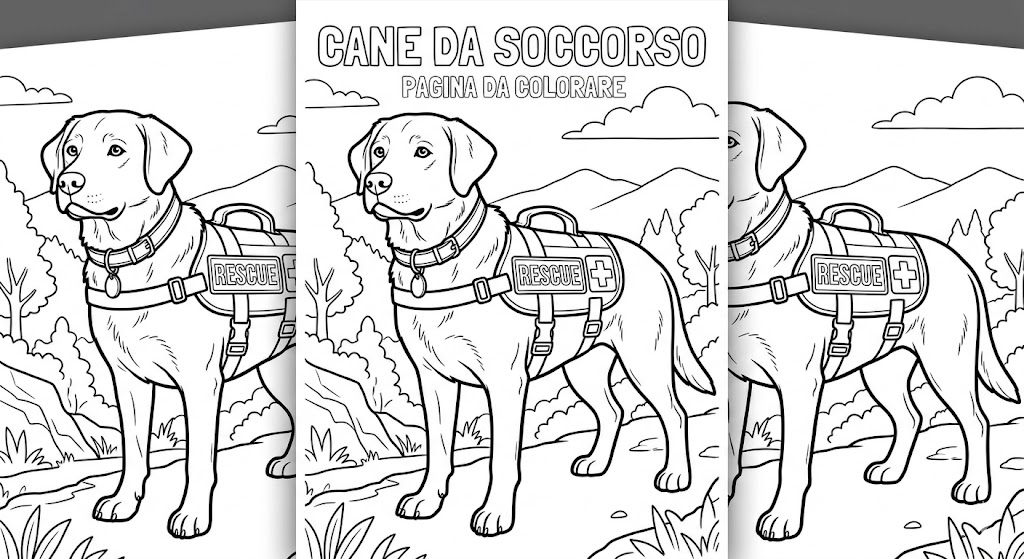
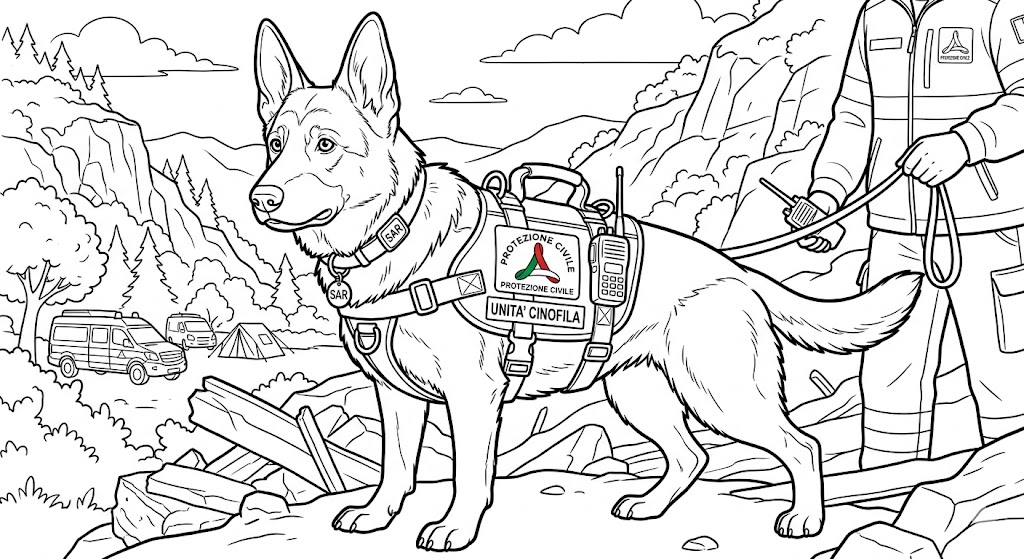
Kit Bambini: aggiornamento batch — disegni reali, soluzioni separate, fix landing pages
DISEGNI REALI INTEGRATI:
- 05 cane da soccorso → pastore tedesco PROTEZIONE CIVILE UNITÀ CINOFILA
  con conduttore in divisa PC + macerie + mezzi sullo sfondo
- 07 mandala bambini → mandala-bussola con rosa dei venti (orienta + rilassa)
- 47 (NUOVA) → Canadair CL-415 antincendio per fascia 6-8 anni
- 10 lavarsi mani → infografica WHO ufficiale 12 step (già pubblicata)
- 02/03/04 camion/tende/elicottero (già pubblicati commit precedente)

SOLUZIONI GIOCHI:
- Bug critico fixato: nel print.css aggiunto 'details, .soluzioni
  { display: none !important; }' in @user print → soluzioni nei
  <details> NON finiscono più sul foglio del bambino in stampa
- Nuova scheda 99-soluzioni-giochi.html: foglio dedicato per
  operatori con tutte le soluzioni (cruciverba 15/23, word search 21,
  sudoku 22, labirinti 6/13, punto-punto 12, trova differenze 14)
  Marcato 'RISERVATO — non distribuire ai bambini'

INDICE BAMBINI:
- Rimossi numeri delle schede ('46 schede', '10 schede fascia X')
  per applicare la rule del progetto 'Niente conteggi inventario'
  (causa drift). Lasciato solo tipologia + fascia.
- Rimosso link auto-referenziale 'Ogni nuova versione disponibile a...'
- Email corretta: info@ → [email redacted]
  (l'email info@ non esisteva, sostituita con quella vera dei contatti)

ELIMINATA scheda 11 color-by-number elicottero schematico
(duplicato della scheda 4 che ora ha l'illustrazione vera).

KIT ANZIANI: scheda 07 mandala adulto sostituita con illustrazione
[…]

diff --git a/static/formazione/kit-calamita-bambini/99-soluzioni-giochi.html b/static/formazione/kit-calamita-bambini/99-soluzioni-giochi.html
@@ -1,0 +1,91 @@
+<!DOCTYPE html>
+<html lang="it">
+<head>
+<meta charset="utf-8">
+<title>Soluzioni dei giochi — Kit Calamità Bambini (per operatori)</title>
+<link rel="stylesheet" href="../kit-calamita-shared/print.css">
+<style>
+  .scheda { font-size: 11pt; }
+  h2 { color: var(--pc-blue); font-size: 14pt; margin: 6mm 0 2mm; border-bottom: 1px solid var(--pc-blue); padding-bottom: 1mm; }
+  .sol-box { border: 1.5px solid #1a1a1a; border-radius: 6px; padding: 4mm 5mm; margin-bottom: 4mm; }
+  .sol-titolo { color: var(--pc-blue); font-weight: 700; font-size: 12pt; margin-bottom: 2mm; }
+  pre { font-family: monospace; font-size: 12pt; background: #fafbfc; padding: 3mm; border: 1px solid #ccc; line-height: 1.5; margin: 2mm 0; }
+  .alert-box { background: #fff5f5; border: 2px solid #c1121f; border-radius: 6px; padding: 4mm 5mm; margin-bottom: 6mm; }
+  .alert-box strong { color: #c1121f; font-size: 13pt; }
+</style>
+</head>
+<body>
+<button class="btn-stampa no-print" onclick="window.print()">🖨️ Stampa A4</button>
+<a class="btn-indice no-print" href="./">← Indice</a>
+<article class="scheda">
+  <header class="scheda-header">
+    <svg class="logo" viewBox="0 0 100 100" aria-hidden="true"><rect x="2" y="2" width="96" height="96" fill="none" stroke="#003366" stroke-width="3"/><text x="50" y="58" text-anchor="middle" font-size="32" font-weight="700" fill="#003366">PC</text></svg>
+    <div class="brand">Protezione Civile<small>Gruppo Comunale Volontari — Genzano di Roma</small></div>
+    <span class="kit-tag">Kit Calamità Bambini · SOLUZIONI</span>
+  </header>
+  <h1 class="scheda-title">Soluzioni dei giochi</h1>
+  <p class="scheda-subtitle">Foglio riservato all'operatore — non distribuire ai bambini</p>
+  <div class="alert-box">
+    <strong>⚠️ ATTENZIONE</strong> — questo foglio contiene le soluzioni di tutti i giochi del kit. Stamparlo separatamente dalle schede dei bambini e tenerlo con sé. Serve per verificare le risposte o aiutare un bambino bloccato.
+  </div>
+  <section class="scheda-attivita" style="align-items: stretch;">
+
+    <h2>Scheda 15 — Completa le parole della sicurezza (6-8 anni)</h2>
+    <div class="sol-box">
+      <p>1) <strong>CASCO</strong> · 2) <strong>AIUTO</strong> · 3) <strong>RADIO</strong> · 4) <strong>TENDA</strong> · 5) <strong>AMICO</strong></p>
+    </div>
+
+    <h2>Scheda 21 — Cerca le parole della Protezione Civile (9-11 anni)</h2>
+    <div class="sol-box">
+      <div class="sol-titolo">15 parole nascoste:</div>
+      <p>AIUTO · CASCO · TENDA · RADIO · VOLONTARIO · SOCCORSO · SANITARIO · SPERANZA · ALLERTA · NUMERO · AVVISO · DPC · TERREMOTO · MARE · CALMA</p>
+      <p style="font-size: 9.5pt; color: #666;"><em>Le parole sono nascoste in orizzontale, verticale o diagonale (anche reverse). L'algoritmo di placement le posiziona casualmente — verificare con la ricerca visiva.</em></p>
+    </div>
+
+    <h2>Scheda 22 — Sudoku 6×6 della sicurezza (9-11 anni)</h2>
+    <div class="sol-box">
+<pre>3 5 2 6 1 4
+1 4 6 2 3 5
+6 3 4 5 2 1
+2 1 5 4 6 3
+4 2 3 1 5 6
+5 6 1 3 4 2</pre>
+    </div>
+
+    <h2>Scheda 23 — Le 10 parole della Protezione Civile (9-11 anni)</h2>
+    <div class="sol-box">
+      <p>1) <strong>DPC</strong> · 2) <strong>VOLONTARIO</strong> · 3) <strong>TERREMOTO</strong> · 4) <strong>SOCCORSO</strong> · 5) <strong>SIRENA</strong> · 6) <strong>ALLERTA</strong> · 7) <strong>112</strong> · 8) <strong>ARCOBALENO</strong> · 9) <strong>RADIO</strong> · 10) <strong>SOLE</strong></p>
+    </div>
+
+    <h2>Schede 6 e 13 — Labirinti</h2>
+    <div class="sol-box">
+      <p>I labirinti sono generati con algoritmo Recursive Backtracking che garantisce <strong>esattamente un percorso</strong> da START a FINE (non ci sono percorsi multipli, non ci sono vicoli ciechi senza uscita strutturali). Per la soluzione visiva: aprire la scheda HTML in browser e seguire il percorso col dito — l'unica via libera è quella corretta.</p>
+    </div>
+
+    <h2>Scheda 12 — Punto-punto: il casco del volontario (6-8 anni)</h2>
+    <div class="sol-box">
+      <p>Unendo i 24 punti in ordine si forma il <strong>casco del volontario di Protezione Civile con la lampada frontale</strong> (semicerchio per la calotta + visiera + lampada in fronte).</p>
+    </div>
+
+    <h2>Scheda 14 — Trova le 7 differenze (6-8 anni)</h2>
+    <div class="sol-box">
+      <ol>
+        <li>Sole con raggi (squadra B) vs senza raggi (A)</li>
+        <li>Bandiera in mano al volontario (B) vs niente (A)</li>
+        <li>Cane con orecchie a punta (B) vs senza (A)</li>
+        <li>Mela rossa sull'albero (B) vs niente (A)</li>
+        <li>Croce sulla tenda più grande (B)</li>
+        <li>Nuvola in posizione diversa (B vs A)</li>
+        <li>Uccellini in volo (B) vs niente (A)</li>
+      </ol>
+    </div>
+
+  </section>
+  <footer class="scheda-footer">
+    <span>Soluzioni — Kit Calamità Bambini</span>
+    <span class="fonti">Foglio riservato. Stampare e tenere con l'operatore. Non distribuire ai bambini.</span>
+    <span>www.protezionecivilegenzano.it</span>
+  </footer>
+</article>
+</body>
+</html>

diff --git a/static/formazione/kit-calamita-anziani/07-mandala-adulti.html b/static/formazione/kit-calamita-anziani/07-mandala-adulti.html
@@ -2,7 +2,7 @@
 <html lang="it">
 <head>
 <meta charset="utf-8">
-<title>Scheda 7 — Mandala per adulti (anziani, rilassamento)</title>
+<title>Scheda 7 — Mandala terapia da colorare (anziani)</title>
 <link rel="stylesheet" href="../kit-calamita-shared/print.css">
 </head>
 <body>
@@ -14,63 +14,17 @@
     <div class="brand">Protezione Civile<small>Gruppo Comunale Volontari — Genzano di Roma</small></div>
     <span class="kit-tag">Anziani · Rilassamento</span>
   </header>
-  <h1 class="scheda-title">Mandala per la calma</h1>
-  <span class="scheda-eta">Rilassamento + esercizio motricità fine</span>
-  <div class="scheda-istruzione">🎨 <strong>Colora con calma</strong>, dal centro verso l'esterno o viceversa. La ripetitività rilassa la mente.</div>
+  <h1 class="scheda-title">Mandala terapia per il rilassamento</h1>
+  <span class="scheda-eta">Adulti / anziani — esercizio motricità fine + concentrazione</span>
+  <div class="scheda-istruzione">🌸 <strong>Colora il mandala</strong> con calma. La ripetitività dei motivi rilassa la mente. Concediti tempo, non c'è fretta.</div>
   <section class="scheda-attivita" style="justify-content: center;">
-    <svg viewBox="0 0 500 500" style="width:100%; max-height: 230mm;">
-      <!-- Centro: rosa a 8 petali -->
-      <circle cx="250" cy="250" r="20" fill="none" stroke="#1a1a1a" stroke-width="2"/>
-      <g stroke="#1a1a1a" stroke-width="2" fill="none">
-        <ellipse cx="250" cy="220" rx="12" ry="20" transform="rotate(0 250 250)"/>
-        <ellipse cx="250" cy="220" rx="12" ry="20" transform="rotate(45 250 250)"/>
-        <ellipse cx="250" cy="220" rx="12" ry="20" transform="rotate(90 250 250)"/>
-        <ellipse cx="250" cy="220" rx="12" ry="20" transform="rotate(135 250 250)"/>
-        <ellipse cx="250" cy="220" rx="12" ry="20" transform="rotate(180 250 250)"/>
-        <ellipse cx="250" cy="220" rx="12" ry="20" transform="rotate(225 250 250)"/>
-        <ellipse cx="250" cy="220" rx="12" ry="20" transform="rotate(270 250 250)"/>
-        <ellipse cx="250" cy="220" rx="12" ry="20" transform="rotate(315 250 250)"/>
-      </g>
-      <!-- Cerchio intermedio 1 -->
-      <circle cx="250" cy="250" r="80" fill="none" stroke="#1a1a1a" stroke-width="1.5"/>
-      <!-- 16 piccoli petali al cerchio 80 -->
-      <g stroke="#1a1a1a" stroke-width="1.5" fill="none">
-        <g><circle cx="250" cy="170" r="8"/><circle cx="306" cy="194" r="8"/><circle cx="330" cy="250" r="8"/><circle cx="306" cy="306" r="8"/><circle cx="250" cy="330" r="8"/><circle cx="194" cy="306" r="8"/><circle cx="170" cy="250" r="8"/><circle cx="194" cy="194" r="8"/></g>
-      </g>
-      <!-- Cerchio intermedio 2 -->
-      <circle cx="250" cy="250" r="130" fill="none" stroke="#1a1a1a" stroke-width="1.5"/>
-      <!-- Triangoli decorativi tra 80 e 130 -->
-      <g stroke="#1a1a1a" stroke-width="1.5" fill="none">
-        <polygon points="250,80 240,130 260,130"/>
-        <polygon points="250,420 240,370 260,370"/>
-        <polygon points="80,250 130,240 130,260"/>
-        <polygon points="420,250 370,240 370,260"/>
-        <polygon points="370,130 340,170 360,140"/>
-        <polygon points="130,130 160,170 140,140"/>
-        <polygon points="370,370 340,330 360,360"/>
-        <polygon points="130,370 160,330 140,360"/>
-      </g>
-      <!-- Cerchio esterno -->
-      <circle cx="250" cy="250" r="200" fill="none" stroke="#1a1a1a" stroke-width="2"/>
-      <!-- Decorazione esterna a onda -->
-      <g stroke="#1a1a1a" stroke-width="1.2" fill="none">
-        <path d="M 50 250 Q 70 230 90 250 Q 110 270 130 250"/>
-        <path d="M 370 250 Q 390 230 410 250 Q 430 270 450 250"/>
-        <path d="M 250 50 Q 230 70 250 90 Q 270 110 250 130"/>
-        <path d="M 250 370 Q 230 390 250 410 Q 270 430 250 450"/>
-      </g>
-      <!-- Piccoli cerchi decorativi sul bordo esterno -->
-      <g stroke="#1a1a1a" stroke-width="1" fill="none">
-        <circle cx="250" cy="40" r="6"/>
-        <circle cx="250" cy="460" r="6"/>
-        <circle cx="40" cy="250" r="6"/>
-        <circle cx="460" cy="250" r="6"/>
-        <circle cx="100" cy="100" r="6"/>
-        <circle cx="400" cy="100" r="6"/>
-        <circle cx="100" cy="400" r="6"/>
-        <circle cx="400" cy="400" r="6"/>
-      </g>
-    </svg>
+    <img src="img/mandala-adulto.jpg" alt="Mandala terapia da colorare per adulti, motivo simmetrico complesso con fiori di loto centrali, foglie e arabeschi decorativi nei pannelli laterali. In basso la scritta 'Rilassati e concentrati'" style="width: 100%; max-width: 100%; max-height: 230mm; object-fit: contain; border: 1.5px solid #1a1a1a; border-radius: 4px;">
   </section>
-  <footer class="scheda-footer"><span>Anziani Scheda 7 — Mandala</span><span class="fonti">Mandala therapy: ripetitività + simmetria stimolano rilassamento (riduzione cortisolo). Validato in psicogeriatria.</span><span>www.protezionecivilegenzano.it</span></footer>
-</article></body></html>
+  <footer class="scheda-footer">
+    <span>Anziani Scheda 7 — Mandala terapia</span>
+    <span class="fonti">Mandala therapy: ripetitività + simmetria stimolano rilassamento (riduzione cortisolo). Validato in psicogeriatria. Esercizio insieme di motricità fine e concentrazione.</span>
+    <span>www.protezionecivilegenzano.it</span>
+  </footer>
+</article>
+</body>
+</html>

diff --git a/static/formazione/kit-calamita-bambini/07-mandala-sole.html b/static/formazione/kit-calamita-bambini/07-mandala-sole.html
@@ -2,7 +2,7 @@
 <html lang="it">
 <head>
 <meta charset="utf-8">
-<title>Scheda 7 — Mandala del sole (3-5 anni)</title>
+<title>Scheda 7 — Mandala bussola da colorare (3-5 anni)</title>
 <link rel="stylesheet" href="../kit-calamita-shared/print.css">
 </head>
 <body>
@@ -14,59 +14,15 @@
     <div class="brand">Protezione Civile<small>Gruppo Comunale Volontari — Genzano di Roma</small></div>
     <span class="kit-tag">Bambini · 3-5 anni</span>
   </header>
-  <h1 class="scheda-title">Il mandala del sole</h1>
+  <h1 class="scheda-title">Il mio mandala bussola</h1>
   <span class="scheda-eta">3-5 anni</span>
-  <div class="scheda-istruzione">☀️ <strong>Colora il sole</strong> con calma. Quando coloriamo, il cuore si calma e la testa pensa a cose belle.</div>
+  <div class="scheda-istruzione">🧭 <strong>Colora il mandala</strong> e impara le 4 direzioni: Nord, Sud, Est, Ovest. Quando coloriamo con calma, il cuore si rilassa.</div>
   <section class="scheda-attivita" style="justify-content: center;">
-    <svg viewBox="0 0 500 500" style="width:100%; max-height: 200mm;" aria-label="Mandala a forma di sole semplice">
-      <!-- Cerchio centrale viso -->
-      <circle cx="250" cy="250" r="80" fill="none" stroke="#1a1a1a" stroke-width="3"/>
-      <!-- Occhi -->
-      <circle cx="225" cy="235" r="8" fill="none" stroke="#1a1a1a" stroke-width="2"/>
-      <circle cx="275" cy="235" r="8" fill="none" stroke="#1a1a1a" stroke-width="2"/>
-      <!-- Sorriso -->
-      <path d="M 215 270 Q 250 295 285 270" fill="none" stroke="#1a1a1a" stroke-width="3"/>
-      <!-- Cerchio intermedio decorativo -->
-      <circle cx="250" cy="250" r="110" fill="none" stroke="#1a1a1a" stroke-width="2" stroke-dasharray="6 4"/>
-      <!-- Raggi triangolari grandi -->
-      <g stroke="#1a1a1a" stroke-width="3" fill="none">
-        <polygon points="250,120 240,160 260,160"/>
-        <polygon points="250,380 240,340 260,340"/>
-        <polygon points="120,250 160,240 160,260"/>
-        <polygon points="380,250 340,240 340,260"/>
-        <polygon points="158,158 175,178 178,160"/>
-        <polygon points="342,158 325,178 322,160"/>
-        <polygon points="158,342 175,322 178,340"/>
-        <polygon points="342,342 325,322 322,340"/>
-      </g>
-      <!-- Raggi piccoli intermedi -->
-      <g stroke="#1a1a1a" stroke-width="2" fill="none">
-        <line x1="250" y1="100" x2="250" y2="115"/>
-        <line x1="250" y1="385" x2="250" y2="400"/>
-        <line x1="100" y1="250" x2="115" y2="250"/>
-        <line x1="385" y1="250" x2="400" y2="250"/>
-        <line x1="195" y1="125" x2="205" y2="138"/>
-        <line x1="305" y1="125" x2="295" y2="138"/>
-        <line x1="195" y1="375" x2="205" y2="362"/>
-        <line x1="305" y1="375" x2="295" y2="362"/>
-      </g>
-      <!-- Cerchio esterno con piccoli petali -->
-      <circle cx="250" cy="250" r="180" fill="none" stroke="#1a1a1a" stroke-width="1.5"/>
-      <g stroke="#1a1a1a" stroke-width="1.5" fill="none">
-        <circle cx="250" cy="70" r="8"/>
-        <circle cx="250" cy="430" r="8"/>
-        <circle cx="70" cy="250" r="8"/>
-        <circle cx="430" cy="250" r="8"/>
-        <circle cx="123" cy="123" r="8"/>
-        <circle cx="377" cy="123" r="8"/>
-        <circle cx="123" cy="377" r="8"/>
-        <circle cx="377" cy="377" r="8"/>
-      </g>
-    </svg>
+    <img src="img/mandala-bussola.jpg" alt="Mandala-bussola da colorare per bambini con rosa dei venti centrale (Nord, Sud, Est, Ovest, NE, SE, SO, NO), orsetto polare in alto, sole nascente, palme, conchiglie, pesci e barchetta nelle decorazioni a margine" style="width: 100%; max-width: 100%; max-height: 220mm; object-fit: contain; border: 1.5px solid #1a1a1a; border-radius: 4px;">
   </section>
   <footer class="scheda-footer">
-    <span>Scheda 7 — Mandala del sole</span>
-    <span class="fonti">I mandala sono disegni circolari che aiutano a calmarsi. Anche dopo cose difficili, il sole torna sempre a sorgere.</span>
+    <span>Scheda 7 — Mandala bussola</span>
+    <span class="fonti">Mandala-bussola: oltre al rilassamento, introduce le 4 direzioni cardinali (utili per orientamento in campo accoglienza). Tema dell'esplorazione: orsetto, mare, palme.</span>
     <span>www.protezionecivilegenzano.it</span>
   </footer>
 </article>

diff --git a/static/formazione/kit-calamita-bambini/47-colora-canadair.html b/static/formazione/kit-calamita-bambini/47-colora-canadair.html
@@ -1,0 +1,31 @@
+<!DOCTYPE html>
+<html lang="it">
+<head>
+<meta charset="utf-8">
+<title>Scheda 47 — Colora il Canadair antincendio (6-8 anni)</title>
+<link rel="stylesheet" href="../kit-calamita-shared/print.css">
+</head>
+<body>
+<button class="btn-stampa no-print" onclick="window.print()">🖨️ Stampa A4</button>
+<a class="btn-indice no-print" href="./">← Indice</a>
+<article class="scheda">
+  <header class="scheda-header">
+    <svg class="logo" viewBox="0 0 100 100" aria-hidden="true"><rect x="2" y="2" width="96" height="96" fill="none" stroke="#003366" stroke-width="3"/><text x="50" y="58" text-anchor="middle" font-size="32" font-weight="700" fill="#003366">PC</text></svg>
+    <div class="brand">Protezione Civile<small>Gruppo Comunale Volontari — Genzano di Roma</small></div>
+    <span class="kit-tag">Bambini · 6-8 anni</span>
+  </header>
+  <h1 class="scheda-title">Colora il Canadair antincendio</h1>
+  <span class="scheda-eta">6-8 anni</span>
+  <div class="scheda-istruzione">🛩️ <strong>Colora il Canadair CL-415</strong>: l'aereo della Protezione Civile che spegne gli incendi boschivi sganciando l'acqua direttamente sulle fiamme.</div>
+  <section class="scheda-attivita" style="justify-content: center;">
+    <img src="img/canadair-cl415.jpg" alt="Aereo Canadair CL-415 della Protezione Civile da colorare in volo sopra una foresta in fiamme. Sgancia l'acqua presa dal lago. Sullo sfondo montagne, alberi e un piccolo paese" style="width: 100%; max-width: 100%; max-height: 200mm; object-fit: contain; border: 1.5px solid #1a1a1a; border-radius: 4px;">
+    <p style="font-size: 12pt; text-align: center; margin-top: 4mm;">🛩️ Il Canadair raccoglie l'acqua nei laghi e la sgancia sugli incendi boschivi.</p>
+  </section>
+  <footer class="scheda-footer">
+    <span>Scheda 47 — Colora il Canadair</span>
+    <span class="fonti">Il Canadair CL-415 è un velivolo anfibio della flotta antincendio del Dipartimento di Protezione Civile italiano, gestito dai Vigili del Fuoco. Trasporta 6.000 litri di acqua per "lancio".</span>
+    <span>www.protezionecivilegenzano.it</span>
+  </footer>
+</article>
+</body>
+</html>

diff --git a/static/formazione/kit-calamita-bambini/05-color-by-number-cane-soccorso.html b/static/formazione/kit-calamita-bambini/05-color-by-number-cane-soccorso.html
@@ -16,9 +16,9 @@
   </header>
   <h1 class="scheda-title">Colora il cane da soccorso</h1>
   <span class="scheda-eta">3-5 anni</span>
-  <div class="scheda-istruzione">🐕 <strong>Colora il cane</strong> dell'Unità Cinofila da Soccorso. Indossa la sua pettorina arancione con la scritta "RESCUE" e la croce.</div>
+  <div class="scheda-istruzione">🐕 <strong>Colora il cane</strong> e il suo conduttore dell'Unità Cinofila della Protezione Civile, mentre cercano persone disperse tra le macerie.</div>
   <section class="scheda-attivita" style="justify-content: center;">
-    <img src="img/cane-da-soccorso.jpg" alt="Cane labrador da soccorso da colorare, con pettorina e scritta RESCUE e croce, in un paesaggio di colline e cespugli" style="width: 100%; max-width: 100%; max-height: 200mm; object-fit: contain; border: 1.5px solid #1a1a1a; border-radius: 4px;">
+    <img src="img/cane-da-soccorso.jpg" alt="Cane pastore tedesco dell'Unità Cinofila Protezione Civile da colorare, con pettorina SAR e scritte 'PROTEZIONE CIVILE — UNITÀ CINOFILA', accanto al conduttore in divisa PC con radio in mano. Sullo sfondo macerie, alberi, mezzi di soccorso e una tenda" style="width: 100%; max-width: 100%; max-height: 200mm; object-fit: contain; border: 1.5px solid #1a1a1a; border-radius: 4px;">
     <p style="font-size: 12pt; text-align: center; margin-top: 4mm;">🐕 I cani da soccorso cercano persone disperse sotto le macerie, in montagna, nelle alluvioni.</p>
   </section>
   <footer class="scheda-footer">

diff --git a/static/formazione/kit-calamita-shared/print.css b/static/formazione/kit-calamita-shared/print.css
@@ -257,6 +257,10 @@ ul.elenco-pratico li::before {
     padding: 12mm;
   }
   .no-print { display: none !important; }
+  /* Nascondi soluzioni in stampa: <details> con soluzioni di
+     sudoku/cruciverba/word search devono restare riservati al
+     conduttore via schermo, non finire sul foglio del bambino. */
+  details, .soluzioni { display: none !important; }
   @page {
     size: A4;
     margin: 0;

diff --git a/content/formazione/kit-calamita/_index.md b/content/formazione/kit-calamita/_index.md
@@ -12,18 +12,18 @@ Le schede sono progettate con **font e grafica a basso consumo di inchiostro** (
 
 ### 👧 [Kit Calamità Bambini](/formazione/kit-calamita-bambini/)
 
-**46 schede + 1 guida operatori PFA Children** per bambini 3-14 anni e per supporto inclusione (disabilità motoria, visiva, cognitiva, italiano L2). Distrazione attiva + supporto emotivo + ricostruzione routine.
+Schede + guida operatori PFA Children per bambini 3-14 anni e per supporto inclusione (disabilità motoria, visiva, cognitiva, italiano L2). Distrazione attiva + supporto emotivo + ricostruzione routine.
 
-- 10 schede fascia 3-5 anni (pregrafismo, colorazione, mandala, storia sociale ARASAAC)
-- 10 schede fascia 6-8 anni (color-by-number, labirinti, cruciverba, origami, diario emozioni)
-- 10 schede fascia 9-11 anni (word search, sudoku, mappa campo, lettera al soccorritore, ricetta speranza)
-- 10 schede fascia 12-14 anni (diario riflessivo, lettera al futuro me, mini-progetti ripartenza)
-- 6 schede dedicate inclusione (tracciati grandi, alto contrasto, CAA, multilingua)
+- Fascia 3-5 anni: pregrafismo, colorazione, mandala, storia sociale ARASAAC
+- Fascia 6-8 anni: labirinti, cruciverba, origami, diario emozioni
+- Fascia 9-11 anni: word search, sudoku, mappa campo, lettera al soccorritore, ricetta speranza
+- Fascia 12-14 anni: diario riflessivo, lettera al futuro me, mini-progetti ripartenza
+- Schede dedicate inclusione (tracciati grandi, alto contrasto, CAA, multilingua)
 - Guida operatori PFA Children evidence-based (NCTSN, IFRC, WHO/UNHCR, Sphere)
 
 ### 👴 [Kit Calamità Anziani in casa](/formazione/kit-calamita-anziani/)
 
-**10 schede + 1 guida operatori** per anziani autonomi e parzialmente autonomi che vivono in casa propria. Sopravvivenza dignitosa + orientamento + supporto cognitivo.
+Schede + guida operatori per anziani autonomi e parzialmente autonomi che vivono in casa propria. Sopravvivenza dignitosa + orientamento + supporto cognitivo.
 
 - Carta d'identità di emergenza (anagrafica + terapie + ausili)
 - Diario settimanale medicinali
@@ -60,4 +60,4 @@ Le schede sono progettate con **font e grafica a basso consumo di inchiostro** (
 
 Stiamo lavorando per ampliare progressivamente i kit con nuove schede e per aggiungere kit per altre categorie (es. persone con disabilità adulte non istituzionalizzate, persone senza fissa dimora). Ogni nuovo kit verrà aggiunto come voce in questa pagina.
 
-Per segnalare bisogni o suggerire nuove schede: [[email redacted]](mailto:[email redacted]).
+Per segnalare bisogni o suggerire nuove schede: [[email redacted]](mailto:[email redacted]).

diff --git a/content/formazione/kit-calamita-bambini/_index.md b/content/formazione/kit-calamita-bambini/_index.md
@@ -14,9 +14,10 @@ Queste schede sono **pronte da stampare in formato A4** e usabili da soccorritor
 
 ### Per gli adulti
 
-| # | Scheda | Per chi | Quando usarla |
-|---|---|---|---|
-| 0 | [Guida operatori PFA Children](/formazione/kit-calamita-bambini/00-guida-operatori-pfa-children.html) | Soccorritori, educatori, genitori | **Leggere prima di iniziare**. Sintesi evidence-based del protocollo PFA: come avvicinarsi, cosa fare, cosa NON fare, segnali di allarme, fonti istituzionali. |
+| Scheda | Per chi | Quando usarla |
+|---|---|---|
+| [Guida operatori PFA Children](/formazione/kit-calamita-bambini/00-guida-operatori-pfa-children.html) | Soccorritori, educatori, genitori | **Leggere prima di iniziare.** Sintesi evidence-based del protocollo PFA: come avvicinarsi, cosa fare, cosa NON fare, segnali di allarme, fonti istituzionali. |
+| 🔑 [Soluzioni dei giochi](/formazione/kit-calamita-bambini/99-soluzioni-giochi.html) | Solo operatori | **Riservato.** Soluzioni di cruciverba, word search, sudoku, trova differenze. Stamparlo separato dalle schede dei bambini. |
 
 ### Schede per fascia 3-5 anni — pubblicate
 
@@ -112,6 +113,4 @@ Le schede sono progettate sulla base di:
 
 ## Aggiornamenti
 
-Il kit cresce nel tempo. Le schede già pubblicate sono utilizzabili da subito. Le schede "in arrivo" saranno aggiunte progressivamente. Ogni nuova versione è disponibile alla pagina indice [/formazione/kit-calamita-bambini/](/formazione/kit-calamita-bambini/).
-
-Per segnalare bisogni specifici o suggerire nuove schede, scrivi a [[email redacted]](mailto:[email redacted]).
+Il kit cresce nel tempo. Per segnalare bisogni specifici o suggerire nuove schede, scrivi a [[email redacted]](mailto:[email redacted]).

diff --git a/content/formazione/kit-calamita-anziani/_index.md b/content/formazione/kit-calamita-anziani/_index.md
@@ -56,4 +56,4 @@ Le schede sono **pronte da stampare A4** in B/N con consumo inchiostro ridotto (
 - **Cochrane Review 2018** — Reminiscence therapy for dementia
 - **DPC** — linee guida nazionali assistenza ai vulnerabili
 
-Per segnalare bisogni o suggerire nuove schede: [[email redacted]](mailto:[email redacted]).
+Per segnalare bisogni o suggerire nuove schede: [[email redacted]](mailto:[email redacted]).

diff --git a/content/formazione/kit-calamita-strutture-sanitarie/_index.md b/content/formazione/kit-calamita-strutture-sanitarie/_index.md
@@ -56,4 +56,4 @@ Queste schede sono **strumenti operativi pronti da stampare A4** per personale, 
 - **Cochrane Review 2017** — Music therapy for dementia
 - **FISH** — Federazione Italiana Superamento Handicap
 
-Per segnalare bisogni o suggerire nuove schede: [[email redacted]](mailto:[email redacted]).
+Per segnalare bisogni o suggerire nuove schede: [[email redacted]](mailto:[email redacted]).